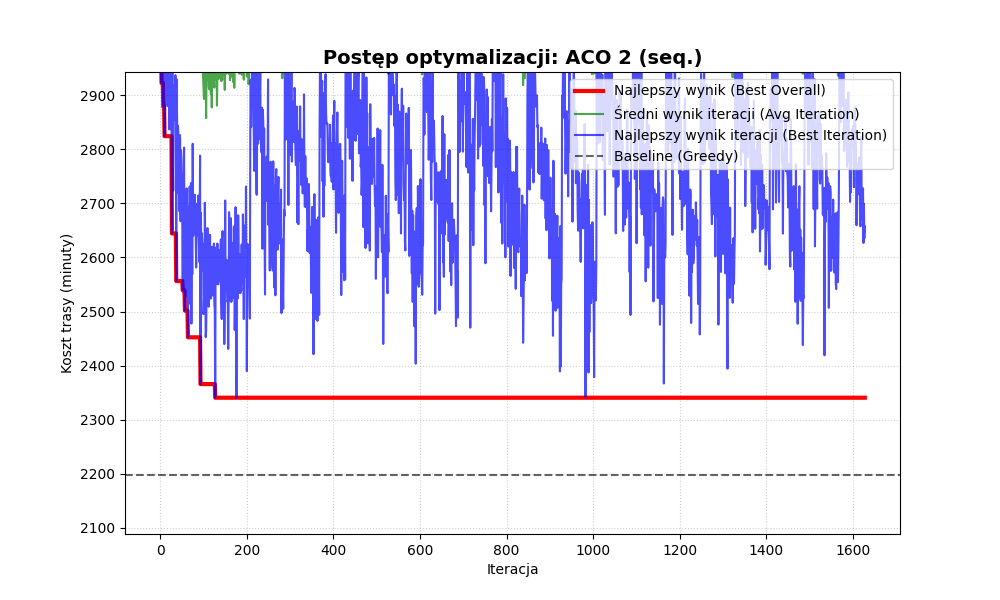
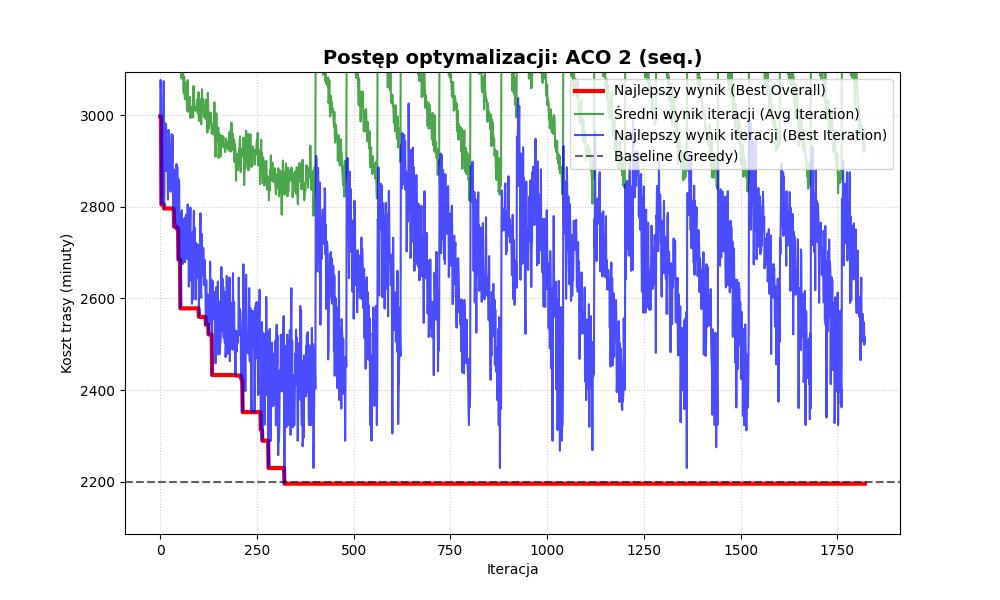
Poprawka aco 5 żeby to była tylko inicjazlizacja greedy i pozwolić im zapomnieć o nim

diff --git a/VRP3/main.py b/VRP3/main.py
@@ -26,8 +26,8 @@ def main():
 
     #  --- 1. GENERACJA DANYCH ---
     params = {
-        "ants_count": 40,
-        "n": 40,
+        "ants_count": 100,
+        "n": 100,
         "d0": 10,
         "d1": 100,
         "t0": 0,
@@ -101,43 +101,43 @@ def main():
     plotter = Plotter()
 
     aco_configs = [
-        {
-            "name": "ACO 1 (without constraints)",
-            "save_name": "ACO_1",
-            "class": ACO_for_VRP_1,
-            "params": {"ants": ants_count, "iterations": 10000, "alpha": 1, "beta": 2, "evaporation": 0.05,
-                       "patience": 1500, "patience_small_shake": 80, "patience_big_shake": 300,
-                       "big_shake_evaporation": 0.2, "big_shake_duration": 20,
-                       "intensity_small_shake": 0.1, "intensity_big_shake": 0.3, "intensity_elite_ant": 0.2,
-                       "q_pheromone": 1000.0, "tau_min": 0.01, "tau_max": 10.0}
-        },
-        {
-            "name": "ACO 2 (seq.)",
-            "save_name": "ACO_2",
-            "class": ACO_for_VRP_2,
-            "params": {"ants": ants_count, "iterations": 10000, "alpha": 1, "beta": 2, "evaporation": 0.05,
-                       "patience": 1500, "patience_small_shake": 80, "patience_big_shake": 300,
-                       "big_shake_evaporation": 0.2, "big_shake_duration": 20,
-                       "intensity_small_shake": 0.1, "intensity_big_shake": 0.3, "intensity_elite_ant": 0.2,
-                       "q_pheromone": 1000.0, "tau_min": 0.01, "tau_max": 10.0}
-        },
-        {
-            "name": "ACO 3 (seq. with local search)",
-            "save_name": "ACO_3",
-            "class": ACO_for_VRP_3,
-            "params": {"ants": ants_count, "iterations": 1000, "alpha": 1, "beta": 2, "evaporation": 0.05,
-                       "patience": 200}
-        },
-        {
-            "name": "ACO 4 (seq. with depot)",
-            "save_name": "ACO_4",
-            "class": ACO_for_VRP_4,
-            "params": {"ants": ants_count, "iterations": 10000, "alpha": 1, "beta": 1.5, "evaporation": 0.05,
-                       "patience": 1500, "patience_small_shake": 80, "patience_big_shake": 300,
-                       "big_shake_evaporation": 0.2, "big_shake_duration": 20,
-                       "intensity_small_shake": 0.1, "intensity_big_shake": 0.3, "intensity_elite_ant": 0.2,
-                       "q_pheromone": 1000.0, "tau_min": 0.01, "tau_max": 10.0}
-        },
+        # {
+        #     "name": "ACO 1 (without constraints)",
+        #     "save_name": "ACO_1",
+        #     "class": ACO_for_VRP_1,
+        #     "params": {"ants": ants_count, "iterations": 10000, "alpha": 1, "beta": 2, "evaporation": 0.05,
+        #                "patience": 1500, "patience_small_shake": 80, "patience_big_shake": 300,
+        #                "big_shake_evaporation": 0.2, "big_shake_duration": 20,
+        #                "intensity_small_shake": 0.1, "intensity_big_shake": 0.3, "intensity_elite_ant": 0.2,
+        #                "q_pheromone": 1000.0, "tau_min": 0.01, "tau_max": 10.0}
+        # },
+        # {
+        #     "name": "ACO 2 (seq.)",
+        #     "save_name": "ACO_2",
+        #     "class": ACO_for_VRP_2,
+        #     "params": {"ants": ants_count, "iterations": 10000, "alpha": 1, "beta": 2, "evaporation": 0.05,
+        #                "patience": 1500, "patience_small_shake": 80, "patience_big_shake": 300,
+        #                "big_shake_evaporation": 0.2, "big_shake_duration": 20,
+        #                "intensity_small_shake": 0.1, "intensity_big_shake": 0.3, "intensity_elite_ant": 0.2,
+        #                "q_pheromone": 1000.0, "tau_min": 0.01, "tau_max": 10.0}
+        # },
+        # {
+        #     "name": "ACO 3 (seq. with local search)",
+        #     "save_name": "ACO_3",
+        #     "class": ACO_for_VRP_3,
+        #     "params": {"ants": ants_count, "iterations": 1000, "alpha": 1, "beta": 2, "evaporation": 0.05,
+        #                "patience": 200}
+        # },
+        # {
+        #     "name": "ACO 4 (seq. with depot)",
+        #     "save_name": "ACO_4",
+        #     "class": ACO_for_VRP_4,
+        #     "params": {"ants": ants_count, "iterations": 10000, "alpha": 1, "beta": 1.5, "evaporation": 0.05,
+        #                "patience": 1500, "patience_small_shake": 80, "patience_big_shake": 300,
+        #                "big_shake_evaporation": 0.2, "big_shake_duration": 20,
+        #                "intensity_small_shake": 0.1, "intensity_big_shake": 0.3, "intensity_elite_ant": 0.2,
+        #                "q_pheromone": 1000.0, "tau_min": 0.01, "tau_max": 10.0}
+        # },
         {
             "name": "ACO 5 (seq. with depot & gready)",
             "save_name": "ACO_5",

diff --git a/VRP3/ACO_for_VRP_5.py b/VRP3/ACO_for_VRP_5.py
@@ -303,6 +303,9 @@ class ACO_for_VRP_5:
     def run(self):
         best_vehicles, best_gtr_overall, best_cost = self.prepare_greeady_solution()
 
+        # --- Zmuszenie do śledzenia rekordu samych mrówek bez greedy ---
+        best_cost = float('inf')
+
         no_improvement_count = 0
         no_improvement_count_shake = 0
         no_improvement_count_big_shake = 0
@@ -332,16 +335,15 @@ class ACO_for_VRP_5:
 
             for ant in ants:
                 ant.build_route(scores_matrix)
-
                 cost, vehicles = self.solution_cost(ant.gtr)
                 ant.cost = cost  # przyspieszenie
                 iter_costs.append(cost)
 
-                if cost < best_cost:
+                if cost < best_cost:  # Sprawdzamy rekord globalny
                     best_cost = cost
                     best_vehicles = vehicles
                     used_vehicles_count = sum(1 for v in best_vehicles if len(v.route) > 2)
-                    best_gtr_overall = ant.gtr.copy()  # (zapisujemy szkielet trasy)
+                    best_gtr_overall = ant.gtr.copy()
                     found_better_in_iter = True
 
             # Aktualizacja feromonów
@@ -389,9 +391,9 @@ class ACO_for_VRP_5:
                 "Evap": f"{self.evaporation:.2f}",
                 "Alfa": f"{self.alpha:.1f}",
                 "Beta": f"{self.beta:.1f}",
-                "Stagnation": f"{no_improvement_count}/{self.patience}",
-                "Small Shake": f"{no_improvement_count_shake}/{int(self.patience_small_shake)}",
-                "Big Shake": f"{no_improvement_count_big_shake}/{int(self.patience_big_shake)}"
+                "Stag": f"{no_improvement_count}/{self.patience}",
+                "S_Shake": f"{no_improvement_count_shake}/{int(self.patience_small_shake)}",
+                "B_Shake": f"{no_improvement_count_big_shake}/{int(self.patience_big_shake)}"
             })
 
             # Zapisujemy historię

diff --git a/VRP3/Utills/Generator.py b/VRP3/Utills/Generator.py
@@ -69,7 +69,7 @@ class Generator:
         i = 0
         total_capacity = 0
 
-        while total_capacity < 1.5 * total_demand:
+        while total_capacity < 1.2 * total_demand:
             capacity = random.choice([300, 500, 700])
             total_capacity += capacity
 
